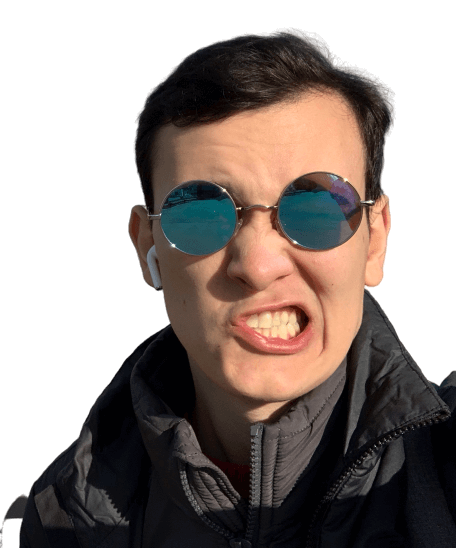
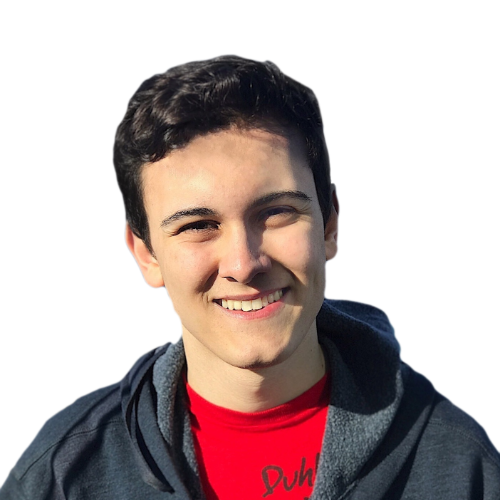
changed pic, improved css and updated resume

diff --git a/styles/main.scss b/styles/main.scss
@@ -30,10 +30,6 @@ body {
   box-sizing: border-box;
 }
 .preload * {
-  -webkit-transition: none !important;
-  -moz-transition: none !important;
-  -ms-transition: none !important;
-  -o-transition: none !important;
   transition: none !important;
 }
 :root {
@@ -52,7 +48,7 @@ nav {
     width: 5rem;
     height: 100vh;
     position: fixed;
-    transition: width 600ms ease;
+    transition: width 300ms ease;
     overflow: hidden;
     background: #03071f;
     z-index: 99;
@@ -87,7 +83,7 @@ nav {
   .navbarItem {
     width: 100%;
     display: flex;
-    transition: transform 0.6s ease, filter 0.6s ease;
+    transition: transform 300ms ease;
 
     &:first-child {
       margin-bottom: 3rem;
@@ -123,7 +119,7 @@ nav {
         filter: brightness(350%) grayscale(1);
         max-width: 40px;
         min-width: 40px;
-        transition: transform 600ms ease;
+        transition: transform 300ms ease;
         @media (max-width: $break-mobile) {
           max-width: 30px;
           min-width: 30px;
@@ -171,7 +167,6 @@ main {
   margin-left: 5rem;
   padding: 1rem;
   min-height: 100vh;
-  transition: margin 600ms ease;
[1 lines of base64/hex data omitted]
   display: flex;
   flex-direction: column;
@@ -300,7 +295,7 @@ textarea {
     font-style: italic;
     color: #121630;
     cursor: pointer;
-    transition: opacity 200ms ease;
+    transition: opacity 300ms ease;
   }
 }
 
@@ -414,14 +409,14 @@ textarea {
 }
 
 .faceCircle {
-  width: 300px;
-  height: 300px;
+  width: 280px;
+  height: 280px;
   border-radius: 100%;
   position: relative;
   background-color: $orange;
   box-shadow: 2px 0 10px 0 rgba(0, 0, 0, 0.5);
   clip-path: circle();
-  margin: 0 auto 3rem;
+  margin: 1rem auto 3rem;
 
   &::after {
     content: "";
@@ -431,15 +426,15 @@ textarea {
     left: 0;
     width: 100%;
     height: 100%;
-    background: url("../img/myFace.png") no-repeat local -80% -18%;
-    background-size: 95%;
+    background: url("../img/myFace.png");
+    background-size: 100%;
     filter: grayscale(100%);
   }
 
   @media (max-width: $break-mobile) {
     width: 200px;
     height: 200px;
-    margin: 0 auto;
+    margin: 1rem auto 0;
   }
 }
 
@@ -459,7 +454,7 @@ textarea {
     flex-wrap: wrap;
     margin: 1rem;
     justify-content: center;
-    transition: opacity 200ms ease;
+    transition: opacity 300ms ease;
 
     button {
       padding: 2px 9px;
@@ -482,7 +477,7 @@ textarea {
 
     button {
       position: relative;
-      transition: opacity 0.5s ease, width 0.5s ease;
+      transition: opacity 300ms ease, width 300ms ease;
       overflow: hidden;
       max-width: 150px;
       width: 0;
@@ -499,7 +494,7 @@ textarea {
       max-width: 150px;
       width: 100%;
       filter: grayscale(1);
-      transition: transform 0.5s ease, filter 0.5s ease;
+      transition: transform 300ms ease, filter 300ms ease;
       padding: 8px;
 
       &:hover {
@@ -526,7 +521,7 @@ textarea {
 
     img {
       width: 100%;
-      padding: 5% 0.1% 0;
+      padding: 5% 0.2% 0;
       border-radius: 0 0 7px 7px;
     }
 

diff --git a/languages/translations.js b/languages/translations.js
@@ -66,8 +66,10 @@ export default {
     apiaDesc:
       "Here I've created ecommerce websites using CiaShop framework, HTML, CSS and JS. I was also helping other teams with different technologies when needed (iOS development, mostly). My team's main goal was to develop conversion-oriented front-ends that were easy to maintain, with clean and readable code.",
     education: "Education",
+    computerStudies: "Computer Studies",
+    computerStudiesTimeframe: "January 2021 - Present",
     infoTech: "Information Technology",
-    infoTechTimeframe: "October 2017 - Present",
+    infoTechTimeframe: "October 2017 - December 2019",
     canada: "Canada",
     abmTimeframe: "August 2016 - August 2017",
     webFrontendTimeframe: "May 2014 - November 2014",
@@ -155,8 +157,10 @@ export default {
     apiaDesc:
       "Aqui eu criei sites de e-commerce usando o framework da CiaShop, HTML, CSS e JS. Eu também ajudava outros times com tecnologias diferentes quando necessário (Desenvolvimento iOS, normalmente) O principal objetivo do meu time era criar front-ends orientados para a conversão que fossem fáceis de manter com código limpo e legível.",
     education: "Educação",
+    computerStudies: "Ciência da Computação",
+    computerStudiesTimeframe: "January 2021 - Presente",
     infoTech: "Tecnologia da Informação",
-    infoTechTimeframe: "Outubro de 2017 - Presente",
+    infoTechTimeframe: "Outubro de 2017 - Dezembro de 2019",
     canada: "Canadá",
     abmTimeframe: "Agosto de 2016 - Agosto de 2017",
     webFrontendTimeframe: "Maio de 2014 - Novembro de 2014",

diff --git a/pages/resume.js b/pages/resume.js
@@ -59,6 +59,11 @@ export default function Resume() {
       </div>
       <ul className="listResume">
         <li>
+          <strong>{t.computerStudies}</strong> | {t.computerStudiesTimeframe}
+          <br />
+          <strong>Langara College</strong> | Vancouver, {t.canada}
+        </li>
+        <li>
           <strong>{t.infoTech}</strong> | {t.infoTechTimeframe}
           <br />
           <strong>Canadian College</strong> | Vancouver, {t.canada}
